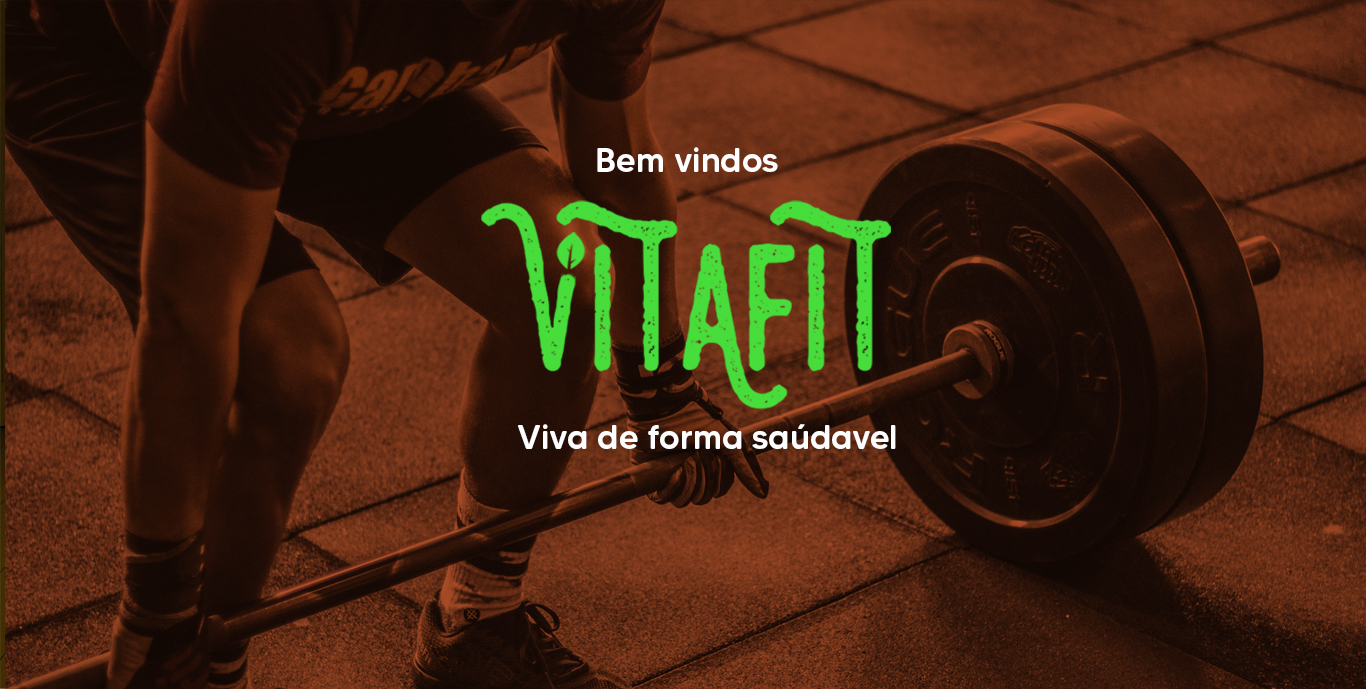
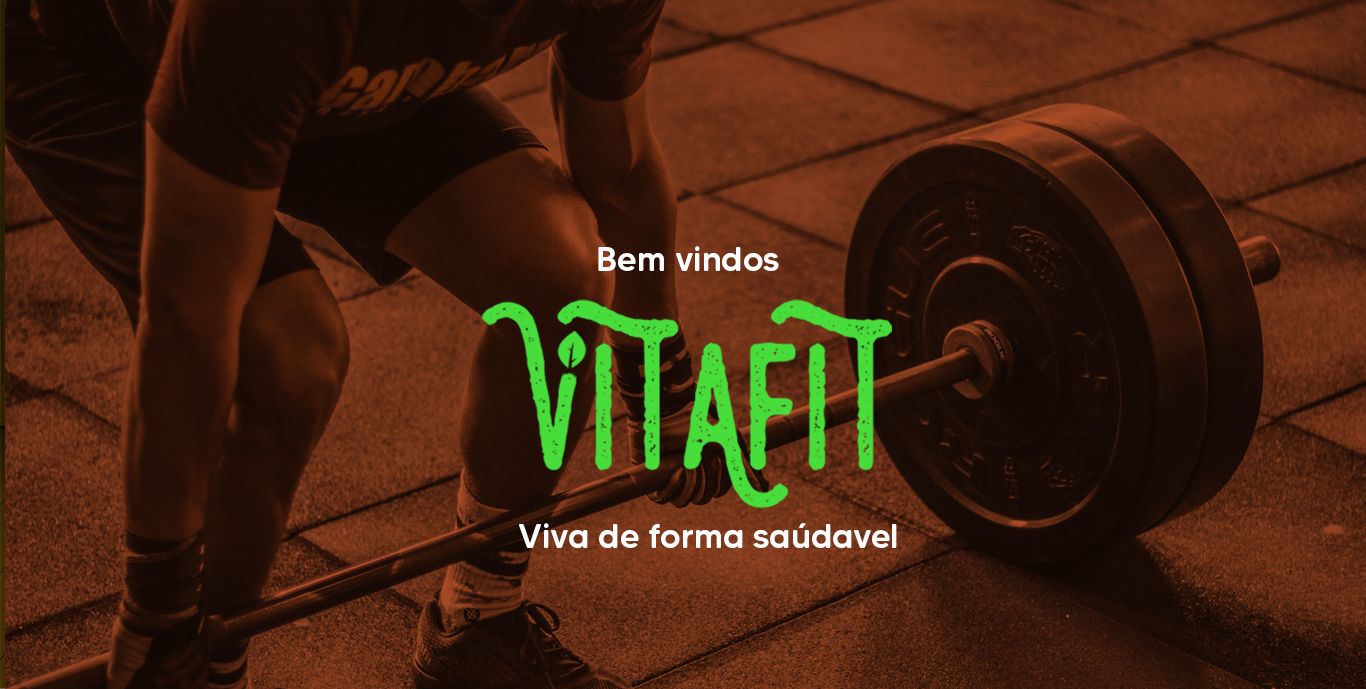
Home
- Estou montando a estrutura
- Ajuste no tamanho das imagens
- Adicionei o efeito parallax

Changed region(s): [[0.3382, 0.2134, 0.6764, 0.7315], [0.369, 0.762, 0.6764, 0.7925]]

diff --git a/home.html b/home.html
@@ -38,93 +38,91 @@
                     
                 </div>
             </header>
-            <img src="imagens/bannerbemvindo.jpg" class="imge">
         </div>
-       
-			
-			<div class="col-100">
-			<br>
-			<br>
-			<br>
-		<div class="content texto-destaque">
-			<h1>Serviços</h1>
-			<br>
-			<h2>Escolha a atividade ideal para você</h2>
-			<br>
-			<br>
-			<br>
-			
-			<div class="col-3">
-				<img src="imagens/personaltrainer2.png">
-				<h3><br>Personal Trainer</h3>
-				<br>
-				<p> Com orientação e supervisão profissional, você vai realizar os movimentos da forma correta, na velocidade ideal e carga especifica para os seus objetivos. Todas as variáveis do treinamento são observadas e ajustadas para otimizar os resultados. </p>
-					<div class="btns">
-						<button type="button" class="efeito efeito-1">Saiba Mais</button>
-					</div>
-			</div>
-			
-			<div class="col-3">
-				<img src="imagens/nutricionista2.png">
-				<h3><br>Nutricionista</h3>
-				<br>
-				<p>Manter uma alimentação balanceada e saudável é extremamente importante para otimizar os resultados. A melhor forma de montar um plano alimentar que atenda as suas necessidades é com o acompanhamento de um nutricionista competente. </p>
-				<div class="btns">
-						<button type="button" class="efeito efeito-1">Saiba Mais</button>
-					</div>
-			</div>
-			
-			<div class="col-3">
-				<img src="imagens/pilates2.png">
-				<h3><br>Pilates</h3>
-				<br>
-				<p>Através de certos fundamentos, o Pilates cria uma linha de exercícios eficiente, sem impacto, que busca melhorar a saúde e a força física do praticante. Por causa disso, qualquer um pode praticar. Idosos, crianças, adultos, gestantes… todos! </p>
-				<div class="btns">
-						<button type="button" class="efeito efeito-1">Saiba Mais</button>
-					</div>
-			</div>
+    
+	<div class="caixa1">
+		<div class="conteudo-titulo">
+		<div class="btns">
+			<button type="button" class="efeito efeito-1">Saiba Mais</button>
+		</div>
 		</div>
 	</div>
 	
-	<div class="col-3">
-				<br>
-				<br>
-				<br>
-				<img src="imagens/yoga.png">
-				<h3><br>Yoga</h3>
-				<br>
-				<p> O yoga proporciona, muito além de condicionamento físico e de estética corporal, benefícios de natureza emocional e espiritual. É fato de que a sua prática melhora, significativamente, a disposição, o bem-estar, o humor e a concentração do praticante. </p>
-				<div class="btns">
-						<button type="button" class="efeito efeito-1">Saiba Mais</button>
-					</div>
-			</div>
-			
-			<div class="col-3">
-				<br>
-				<br>
-				<br>
-				<img src="imagens/artesmarciais.png">
-				<h3><br>Artes Marciais</h3>
-				<br>
-				<p>As artes marciais são um conjunto de técnicas e práticas de luta bem pensadas que foram criadas com o objetivo de defesa pessoal e ataque nas situações de perigo. Mas além de prepararem o físico, também focam no desenvolvimento mental, espiritual e moral das pessoas. </p>
-				<div class="btns">
-						<button type="button" class="efeito efeito-1">Saiba Mais</button>
-					</div>
-			</div>
-			
-			<div class="col-3">
-				<br>
-				<br>
-				<br>
-				<img src="imagens/dança.png">
-				<h3><br>Dança</h3>
-				<br>
-				<p>Todos os estilos de dança trazem benefícios como aumento da flexibilidade, aprimoramento da coordenação motora e melhora cardiorrespiratória. Além de ser um exercício físico excelente, dançar é também uma grande terapia. </p>
-				<br>
-				<div class="btns">
-						<button type="button" class="efeito efeito-1">Saiba Mais</button>
-					</div>
-			</div>
+	<div class="conteudo">
+			<h1>Serviços</h1>
+			<h2> Escolha a atividade ideal para você </h2>
+	</div>
+	
+	<div class="imagens-servico">
+		<img src="imagens/personal.png">
+		<img src="imagens/nutricionista.png">
+		<img src="imagens/pilates.png">
+	</div>
+	
+	<div class="nomes-servico">
+		<h3 class="nome-personal"> Personal Trainer </h3>
+		<h3 class="nome-nutricionista"> Nutricionista </h3>
+		<h3 class="nome-pilates"> Pilates </h3>
+	</div>
+	
+	
+	<div class="paragrafo-servicos">
+		<p>Com orientação e supervisão profissional, você vai realizar os movimentos da forma correta, na velocidade ideal e carga especifica para os seus objetivos. Todas as variáveis do treinamento são observadas e ajustadas para otimizar os resultados.</p>
+		<p>Manter uma alimentação balanceada e saudável é extremamente importante para otimizar os resultados. A melhor forma de montar um plano alimentar que atenda as suas necessidades é com o acompanhamento de um nutricionista competente.</p>
+		<p>Através de certos fundamentos, o Pilates cria uma linha de exercícios eficiente, sem impacto, que busca melhorar a saúde e a força física do praticante. Por causa disso, qualquer um pode praticar. Idosos, crianças, adultos, gestantes… todos!</p>
+	</div>
+	
+	<div class="imagens-servico">
+		<img src="imagens/yoga.jpg">
+		<img src="imagens/artesmarciais.png">
+		<img src="imagens/danca.png">
+	</div>
+	
+	<div class="nomes-servico">
+		<h3 class="nome-yoga"> Yoga </h3>
+		<h3 class="nome-artesmarciais"> Artes Marciais </h3>
+		<h3 class="nome-danca"> Danças </h3>
+	</div>
+	
+	<div class="paragrafo-servicos">
+		<p>O yoga proporciona, muito além de condicionamento físico e de estética corporal, benefícios de natureza emocional e espiritual. É fato de que a sua prática melhora, significativamente, a disposição, o bem-estar, o humor e a concentração do praticante.</p>
+		<p>As artes marciais são um conjunto de técnicas e práticas de luta bem pensadas que foram criadas com o objetivo de defesa pessoal e ataque nas situações de perigo. Mas além de prepararem o físico, também focam no desenvolvimento mental, espiritual e moral das pessoas.</p>
+		<p>Todos os estilos de dança trazem benefícios como aumento da flexibilidade, aprimoramento da coordenação motora e melhora cardiorrespiratória. Além de ser um exercício físico excelente, dançar é também uma grande terapia.</p>
+	</div>
+	
+	
+	
+	
+	
+	
+	<div class="caixa2">
+		Caixa 2
+	</div>
+		
+	<div class="conteudo">
+		<h3>Parallax</h3>
+		<p>Lorem Ipsum is simply dummy text of the printing and typesetting industry. Lorem Ipsum has been the industry's standard dummy text ever since the 1500s, when an unknown printer took a galley of type and scrambled it to make a type specimen bookLorem Ipsum is simply dummy text of the printing and typesetting industry. Lorem Ipsum has been the industry's standard dummy text ever since the 1500s, when an unknown printer took a galley of type and scrambled it to make a type specimen bookLorem Ipsum is simply dummy text of the printing and typesetting industry. Lorem Ipsum has been the industry's standard dummy text ever since the 1500s, when an unknown printer took a galley of type and scrambled it to make a type specimen book</p>
+		
+		<p>Lorem Ipsum is simply dummy text of the printing and typesetting industry. Lorem Ipsum has been the industry's standard dummy text ever since the 1500s, when an unknown printer took a galley of type and scrambled it to make a type specimen bookLorem Ipsum is simply dummy text of the printing and typesetting industry. Lorem Ipsum has been the industry's standard dummy text ever since the 1500s, when an unknown printer took a galley of type and scrambled it to make a type specimen bookLorem Ipsum is simply dummy text of the printing and typesetting industry. Lorem Ipsum has been the industry's standard dummy text ever since the 1500s, when an unknown printer took a galley of type and scrambled it to make a type specimen book</p>
+		
+	</div>
+	
+	<div class="caixa3">
+		Caixa 3
+	</div>
+	
+	<div class="conteudo">
+		<h3>Parallax</h3>
+		<p>Lorem Ipsum is simply dummy text of the printing and typesetting industry. Lorem Ipsum has been the industry's standard dummy text ever since the 1500s, when an unknown printer took a galley of type and scrambled it to make a type specimen bookLorem Ipsum is simply dummy text of the printing and typesetting industry. Lorem Ipsum has been the industry's standard dummy text ever since the 1500s, when an unknown printer took a galley of type and scrambled it to make a type specimen bookLorem Ipsum is simply dummy text of the printing and typesetting industry. Lorem Ipsum has been the industry's standard dummy text ever since the 1500s, when an unknown printer took a galley of type and scrambled it to make a type specimen book</p>
+		
+		<p>Lorem Ipsum is simply dummy text of the printing and typesetting industry. Lorem Ipsum has been the industry's standard dummy text ever since the 1500s, when an unknown printer took a galley of type and scrambled it to make a type specimen bookLorem Ipsum is simply dummy text of the printing and typesetting industry. Lorem Ipsum has been the industry's standard dummy text ever since the 1500s, when an unknown printer took a galley of type and scrambled it to make a type specimen bookLorem Ipsum is simply dummy text of the printing and typesetting industry. Lorem Ipsum has been the industry's standard dummy text ever since the 1500s, when an unknown printer took a galley of type and scrambled it to make a type specimen book</p>
+		
+	</div>
+	
+	
+	<div class="caixa4">
+		Caixa 4
+	</div>
 		
 	</body>
 </html>

diff --git a/css/main.css b/css/main.css
@@ -165,46 +165,67 @@ header .wrapper .menu .menu-item .sub-menu.cor li:hover a {
 	text-transform: uppercase;
 }
 
+/* Fim do Menu */
 
 
-
-
-
-
-
-
-.texto-destaque {
-	text-align: center;
+.conteudo, .col-3 {
+	color: #777;
+	background-color: white;
+	text-align: justify;
+	padding: 50px 80px;
+	
 }
 
-.texto-destaque h1 {
+h1 {
+	display: flex;
+	justify-content: center;
+	font-size: 50px;
 	color: #ff4c05;
-	font-size: 60px;
 }
 
-.texto-destaque h2 {
+h2 {
+	display: flex;
+	justify-content: center;
 	color: #47dd3b;
-	font-size: 30px;
 }
 
-.col-3 {
-	padding-left: 15px;
-	padding-right: 15px;
-	width: 29%;
-	float: left;
-	position: relative;
-	margin-left: 22px;
+h3 {
+	display: flex;
+	justify-content: space-around;
+	color: #47dd3b;
+}
+body, html {
+	margin: 0;
+	font: 16px "Lato", "Gill Sans", "Gill Sans MT", "Myriad Pro", "DejaVu Sans Condensed", Helvetica, Arial, "sans-serif";
+	color: #777;
+	height: 100%;
+	
+}
+
+p {
+	margin-bottom: 20px;
+}
+
+.imagens-servico {
+	display: flex;
+	flex-direction: row;
+	justify-content: space-around;
+}
+
+.nomes-servico {
+	display: flex;
+	flex-direction: row;
+	justify-content: space-around;
+}
+
+.paragrafo-servicos {
+	display: flex;
+	flex-direction: row;
+	justify-content: space-around;
 	text-align: center;
 }
 
-.col-3 h3 {
-	color: #47dd3b;
-	font-weight: 1000;
-}
-
-.col-3 p {
-	color: #1c1b1b;
-}
+/* Botão */
 
 .btns {
 	text-align: center;
@@ -234,4 +255,40 @@ header .wrapper .menu .menu-item .sub-menu.cor li:hover a {
 .efeito-1:hover {
 	background: #ff4c05;
 	color: #ffffff;
+}
+
+/* Efeito Parallax ------*/
+.caixa1, .caixa2, .caixa3, .caixa4 {
+	position: relative;
+	height: 100%;
+	background-repeat: no-repeat;
+	background-position: center;
+	background-size: cover;
+	background-attachment: fixed;
+}
+
+.caixa1 {
+	background-image: url("../imagens/bannerbemvindo.jpg");
+}
+
+.caixa2{
+	background-image: url("../imagens/bannerdicas.jpg");
+}
+
+.caixa3{
+	background-image: url("../imagens/bannercoronga.jpg");
+}
+
+.caixa4{
+	background-image: url("../imagens/bannercoronga2.jpg")
+}
+
+.conteudo-titulo {
+	position: absolute;
+	left: 45%;
+	top: 45%;
+	color: #fff;
+	padding: 18px;
+	font-size: 25px;
+
 }
